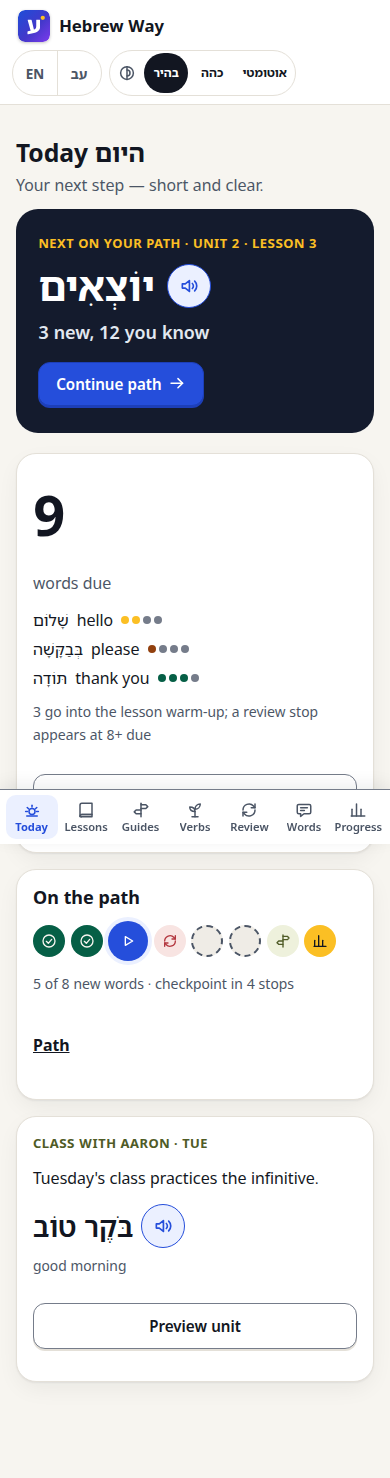
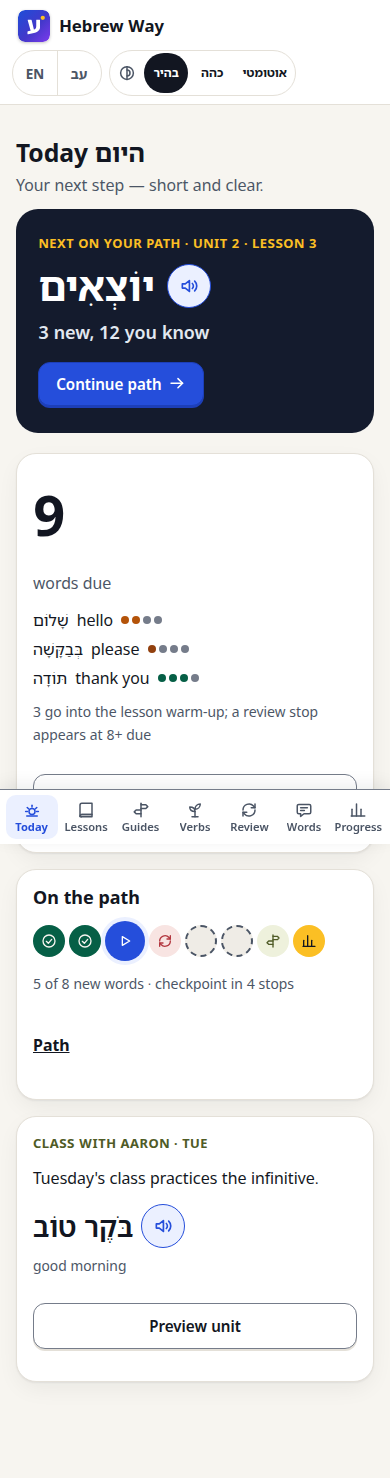
Keep the Today strip inside the card and confirm the gate.
The strip shrinks to fit the card. A 4xx or 5xx gate post follows the lesson link. Go anyway and Test out are what set data-gate to open, and shaky pips use the darker amber.

Changed region(s): [[0.1846, 0.6225, 0.8615, 0.6536], [0.3077, 0.4046, 0.3692, 0.4357]]

diff --git a/shared/worksheet.css b/shared/worksheet.css
@@ -4470,7 +4470,7 @@ img.hebrew-logo-mark {
     --shadow-raised: 0 14px 32px -6px rgba(18, 22, 33, 0.14);
     /* Learning path. Dark mode inherits these through the theme tokens. */
     --strength-fragile: var(--color-miss-ink);
-    --strength-shaky: var(--color-accent-sun);
+    --strength-shaky: var(--amber);
     --strength-solid: var(--color-correct-ink);
     --strength-empty: var(--color-line);
     --color-tutor: var(--color-accent-olive);
@@ -8741,7 +8741,8 @@ html:not([data-ui-lang="he"]) .empty-body-he { display: none; }
     flex-direction: row;
     flex-wrap: nowrap;
     justify-content: flex-start;
-    gap: 0.35rem;
+    gap: 0.25rem;
+    min-width: 0;
     padding: 0;
 }
 .path--strip::before { display: none; }
@@ -8750,15 +8751,20 @@ html:not([data-ui-lang="he"]) .empty-body-he { display: none; }
 .path--strip .path-node__sub,
 .path--strip .strength-pips,
 .path--strip .chip { display: none; }
-.path--strip .path-node { max-width: none; }
+.path--strip > .path-node {
+    flex: 0 1 32px;
+    min-width: 24px;
+    max-width: none;
+}
+.path--strip > .path-node[data-state="current"] { flex-basis: 40px; }
 .path--strip .path-node__btn,
-.path--strip .path-node[data-state="checkpoint"] .path-node__btn {
-    width: var(--node-size-sm);
-    height: var(--node-size-sm);
+.path--strip .path-node[data-state="checkpoint"] .path-node__btn,
+.path--strip .path-node[data-state="current"] .path-node__btn {
+    width: 100%;
+    height: auto;
+    aspect-ratio: 1;
 }
 .path--strip .path-node[data-state="current"] .path-node__btn {
-    width: 40px;
-    height: 40px;
     box-shadow: 0 0 0 4px var(--color-primary-soft);
 }
 .path--strip .path-node__btn { position: relative; }

diff --git a/test/design-tokens.test.js b/test/design-tokens.test.js
@@ -308,7 +308,7 @@ describe('ADR-0006 design tokens', () => {
             assert.match(root, new RegExp(name + '\\s*:'), name);
         }
         assert.match(root, /--strength-fragile:\s*var\(--color-miss-ink\)/);
-        assert.match(root, /--strength-shaky:\s*var\(--color-accent-sun\)/);
+        assert.match(root, /--strength-shaky:\s*var\(--amber\)/);
         assert.match(root, /--strength-solid:\s*var\(--color-correct-ink\)/);
         assert.match(root, /--path-zig:\s*90px/);
         assert.match(root, /--node-size:\s*64px/);

diff --git a/go/internal/web/pages/learn.go b/go/internal/web/pages/learn.go
@@ -95,11 +95,12 @@ func (h *Learning) applySeen(r *http.Request, snap *path.Snapshot) {
 }
 
 // GateAck is POST /_hx/units/{id}/gate-ack.
-// confirm=1 records the ack (Go anyway / Test out) and returns 204.
-// The opening post does not record it. It returns the sheet and flips
-// that unit's links to data-gate="open" for the rest of this page view.
-// A failed write, including ErrNotPersisted, still returns the sheet
-// with working links. Origin or token failures are 403.
+// The opening post does not record the ack and does not change data-gate.
+// Closing the sheet leaves the links on warn, so the next tap asks again.
+// confirm=1 (Go anyway / Test out) records the ack and returns out-of-band
+// replacements that set data-gate="open". A failed write, including
+// ErrNotPersisted, still returns that fragment so the link can navigate.
+// Origin or token failures are 403.
 func (h *Learning) GateAck(w http.ResponseWriter, r *http.Request) {
 	_ = r.ParseForm()
 	if err := csrf.Check(r); err != nil {
@@ -109,7 +110,14 @@ func (h *Learning) GateAck(w http.ResponseWriter, r *http.Request) {
 	id := r.PathValue("id")
 	if r.FormValue("confirm") == "1" {
 		_ = h.gate.MarkGateWarningSeen(r.Context(), lpath.DevUserID, h.planID, id)
-		w.WriteHeader(http.StatusNoContent)
+		setFragmentHeaders(w)
+		var flipped []path.Node
+		if course, err := h.svc.Path(r.Context(), lpath.DevUserID, h.planID); err == nil {
+			due, dueErr := h.svc.DueCount(r.Context(), lpath.DevUserID)
+			snap := path.Present(h.cfg, course, due, dueErr == nil)
+			flipped = openUnitNodes(snap, id)
+		}
+		_ = components.GateConfirmed(flipped).Render(r.Context(), w)
 		return
 	}
 	next := safeLocal(r.FormValue("next"))
@@ -118,25 +126,24 @@ func (h *Learning) GateAck(w http.ResponseWriter, r *http.Request) {
 		UnitID: id, Next: next, Checkpoint: checkpoint,
 		TriggerID: r.FormValue("trigger"),
 	}
-	var flipped []path.Node
-	course, err := h.svc.Path(r.Context(), lpath.DevUserID, h.planID)
-	if err == nil {
+	if course, err := h.svc.Path(r.Context(), lpath.DevUserID, h.planID); err == nil {
 		if n, ok := path.UnfinishedUnit(course, id); ok {
 			dialog.Known = true
 			dialog.TitleEn = "You haven't finished Unit " + itoa(n) + "."
 			dialog.TitleHe = "עוד לא סיימת את יחידה " + itoa(n) + "."
 		}
-		due, dueErr := h.svc.DueCount(r.Context(), lpath.DevUserID)
-		snap := path.Present(h.cfg, course, due, dueErr == nil)
-		flipped = openUnitNodes(snap, id)
 	}
+	setFragmentHeaders(w)
+	_ = components.GateAckBody(dialog).Render(r.Context(), w)
+}
+
+func setFragmentHeaders(w http.ResponseWriter) {
 	hdr := w.Header()
 	hdr.Set("Content-Type", "text/html; charset=utf-8")
 	hdr.Set("X-Content-Type-Options", "nosniff")
 	hdr.Set("Referrer-Policy", "same-origin")
 	hdr.Set("X-Frame-Options", "DENY")
 	hdr.Set("Cache-Control", "no-store")
-	_ = components.GateAckBody(dialog, flipped).Render(r.Context(), w)
 }
 
 func openUnitNodes(snap path.Snapshot, unitID string) []path.Node {

diff --git a/go/internal/web/views/components/gate_dialog_templ.go b/go/internal/web/views/components/gate_dialog_templ.go
@@ -179,9 +179,9 @@ func GateSheet(d GateDialog) templ.Component {
 	})
 }
 
-// GateAckBody is the gate-ack response: the sheet, then out-of-band
-// replacements that open this unit's links for the rest of the page view.
-func GateAckBody(d GateDialog, nodes []path.Node) templ.Component {
+// GateAckBody is the opening response: the sheet only. Links stay on
+// data-gate="warn" until the learner confirms.
+func GateAckBody(d GateDialog) templ.Component {
 	return templruntime.GeneratedTemplate(func(templ_7745c5c3_Input templruntime.GeneratedComponentInput) (templ_7745c5c3_Err error) {
 		templ_7745c5c3_W, ctx := templ_7745c5c3_Input.Writer, templ_7745c5c3_Input.Context
 		if templ_7745c5c3_CtxErr := ctx.Err(); templ_7745c5c3_CtxErr != nil {
@@ -206,6 +206,33 @@ func GateAckBody(d GateDialog, nodes []path.Node) templ.Component {
 		if templ_7745c5c3_Err != nil {
 			return templ_7745c5c3_Err
 		}
+		return nil
+	})
+}
+
+// GateConfirmed is the confirm response. Go anyway and Test out replace
+// this unit's links with data-gate="open". Close does not.
+func GateConfirmed(nodes []path.Node) templ.Component {
+	return templruntime.GeneratedTemplate(func(templ_7745c5c3_Input templruntime.GeneratedComponentInput) (templ_7745c5c3_Err error) {
+		templ_7745c5c3_W, ctx := templ_7745c5c3_Input.Writer, templ_7745c5c3_Input.Context
+		if templ_7745c5c3_CtxErr := ctx.Err(); templ_7745c5c3_CtxErr != nil {
+			return templ_7745c5c3_CtxErr
+		}
+		templ_7745c5c3_Buffer, templ_7745c5c3_IsBuffer := templruntime.GetBuffer(templ_7745c5c3_W)
+		if !templ_7745c5c3_IsBuffer {
+			defer func() {
+				templ_7745c5c3_BufErr := templruntime.ReleaseBuffer(templ_7745c5c3_Buffer)
+				if templ_7745c5c3_Err == nil {
+					templ_7745c5c3_Err = templ_7745c5c3_BufErr
+				}
+			}()
+		}
+		ctx = templ.InitializeContext(ctx)
+		templ_7745c5c3_Var8 := templ.GetChildren(ctx)
+		if templ_7745c5c3_Var8 == nil {
+			templ_7745c5c3_Var8 = templ.NopComponent
+		}
+		ctx = templ.ClearChildren(ctx)
 		for _, n := range nodes {
 			templ_7745c5c3_Err = PathNodeOOB(n).Render(ctx, templ_7745c5c3_Buffer)
 			if templ_7745c5c3_Err != nil {

diff --git a/go/internal/web/pages/learn_test.go b/go/internal/web/pages/learn_test.go
@@ -166,8 +166,15 @@ func TestGateAck(t *testing.T) {
 	if !strings.Contains(sheet, "<dialog") || strings.Contains(sheet, "<dialog open") {
 		t.Fatal("warning was not a closed dialog for showModal")
 	}
-	if !strings.Contains(sheet, `hx-swap-oob="outerHTML"`) || !strings.Contains(sheet, `data-gate="open"`) {
-		t.Fatal("gate-ack did not open the unit's links")
+	if strings.Contains(sheet, `hx-swap-oob`) || strings.Contains(sheet, `data-gate="open"`) {
+		t.Fatal("opening the sheet flipped links to open")
+	}
+	pageHTML := body(page)
+	if !strings.Contains(pageHTML, `hx-on::response-error="location.assign(this.href)"`) || !strings.Contains(pageHTML, `hx-on::send-error="location.assign(this.href)"`) {
+		t.Fatal("a stale gate post does not fall back to the link")
+	}
+	if !strings.Contains(pageHTML, `"[45]..","swap":false`) {
+		t.Fatal("4xx and 5xx still swap")
 	}
 	if strings.Contains(sheet, "gate-scrim") {
 		t.Fatal("scrim wrapper is still in the response")
@@ -402,8 +409,15 @@ func TestGateConfirmAndReload(t *testing.T) {
 	}
 
 	confirm := postConfirm(t, mux, cookie, tok, "http://example.com")
-	if confirm.Code != http.StatusNoContent {
+	if confirm.Code != http.StatusOK {
 		t.Fatalf("confirm status %d", confirm.Code)
+	}
+	confirmed := body(confirm)
+	if !strings.Contains(confirmed, `hx-swap-oob="outerHTML"`) || !strings.Contains(confirmed, `data-gate="open"`) {
+		t.Fatal("confirm did not open the unit's links")
+	}
+	if strings.Contains(confirmed, "<dialog") {
+		t.Fatal("confirm returned another sheet")
 	}
 	seen, seenErr = gate.GateWarningSeen(context.Background(), lpath.DevUserID, lpath.DemoPlanID, "unit-3")
 	if !seen || seenErr != nil {

diff --git a/go/internal/web/views/components/path_node_templ.go b/go/internal/web/views/components/path_node_templ.go
@@ -45,7 +45,7 @@ func PathNode(n path.Node) templ.Component {
 	})
 }
 
-// PathNodeOOB replaces one node after the gate sheet opens.
+// PathNodeOOB replaces one node after the learner confirms the gate.
 func PathNodeOOB(n path.Node) templ.Component {
 	return templruntime.GeneratedTemplate(func(templ_7745c5c3_Input templruntime.GeneratedComponentInput) (templ_7745c5c3_Err error) {
 		templ_7745c5c3_W, ctx := templ_7745c5c3_Input.Writer, templ_7745c5c3_Input.Context
@@ -401,7 +401,7 @@ func nodeLink(n path.Node) templ.Component {
 			if templ_7745c5c3_Err != nil {
 				return templ_7745c5c3_Err
 			}
-			templ_7745c5c3_Err = templruntime.WriteString(templ_7745c5c3_Buffer, 29, "\">")
+			templ_7745c5c3_Err = templruntime.WriteString(templ_7745c5c3_Buffer, 29, "\" hx-on::response-error=\"location.assign(this.href)\" hx-on::send-error=\"location.assign(this.href)\">")
 			if templ_7745c5c3_Err != nil {
 				return templ_7745c5c3_Err
 			}

diff --git a/go/internal/web/views/layout_templ.go b/go/internal/web/views/layout_templ.go
@@ -98,7 +98,7 @@ func Layout(doc Doc) templ.Component {
 			return templ_7745c5c3_Err
 		}
 		if doc.HTMX {
-			templ_7745c5c3_Err = templ.Raw("<meta name=\"htmx-config\" content='{\"responseHandling\":[{\"code\":\"204\",\"swap\":false},{\"code\":\"[23]..\",\"swap\":true},{\"code\":\"[45]..\",\"swap\":true,\"error\":true}]}'>").Render(ctx, templ_7745c5c3_Buffer)
+			templ_7745c5c3_Err = templ.Raw("<meta name=\"htmx-config\" content='{\"responseHandling\":[{\"code\":\"204\",\"swap\":false},{\"code\":\"[23]..\",\"swap\":true},{\"code\":\"[45]..\",\"swap\":false,\"error\":true}]}'>").Render(ctx, templ_7745c5c3_Buffer)
 			if templ_7745c5c3_Err != nil {
 				return templ_7745c5c3_Err
 			}
